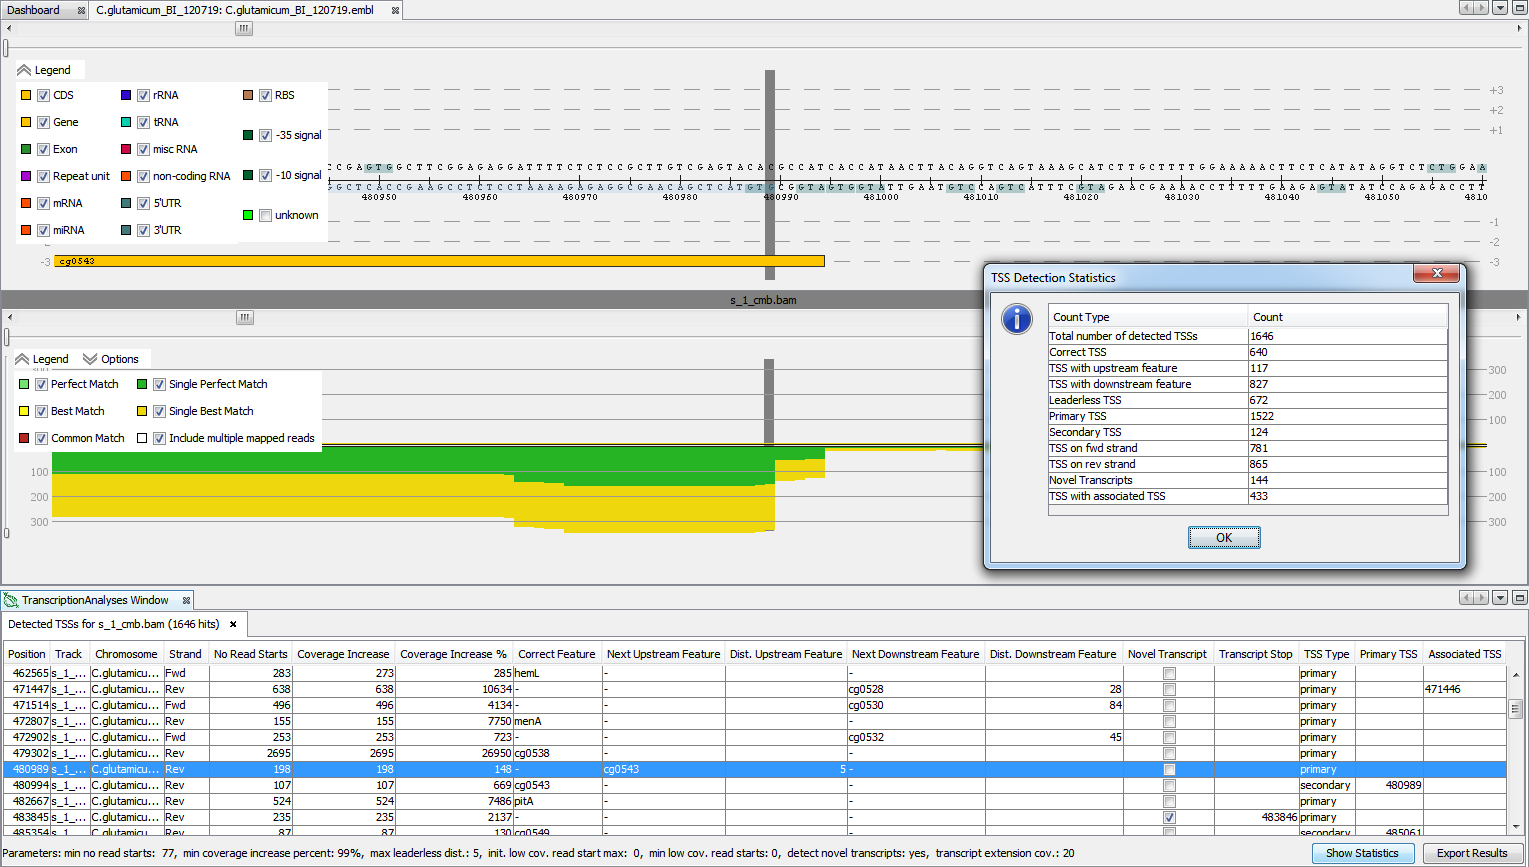
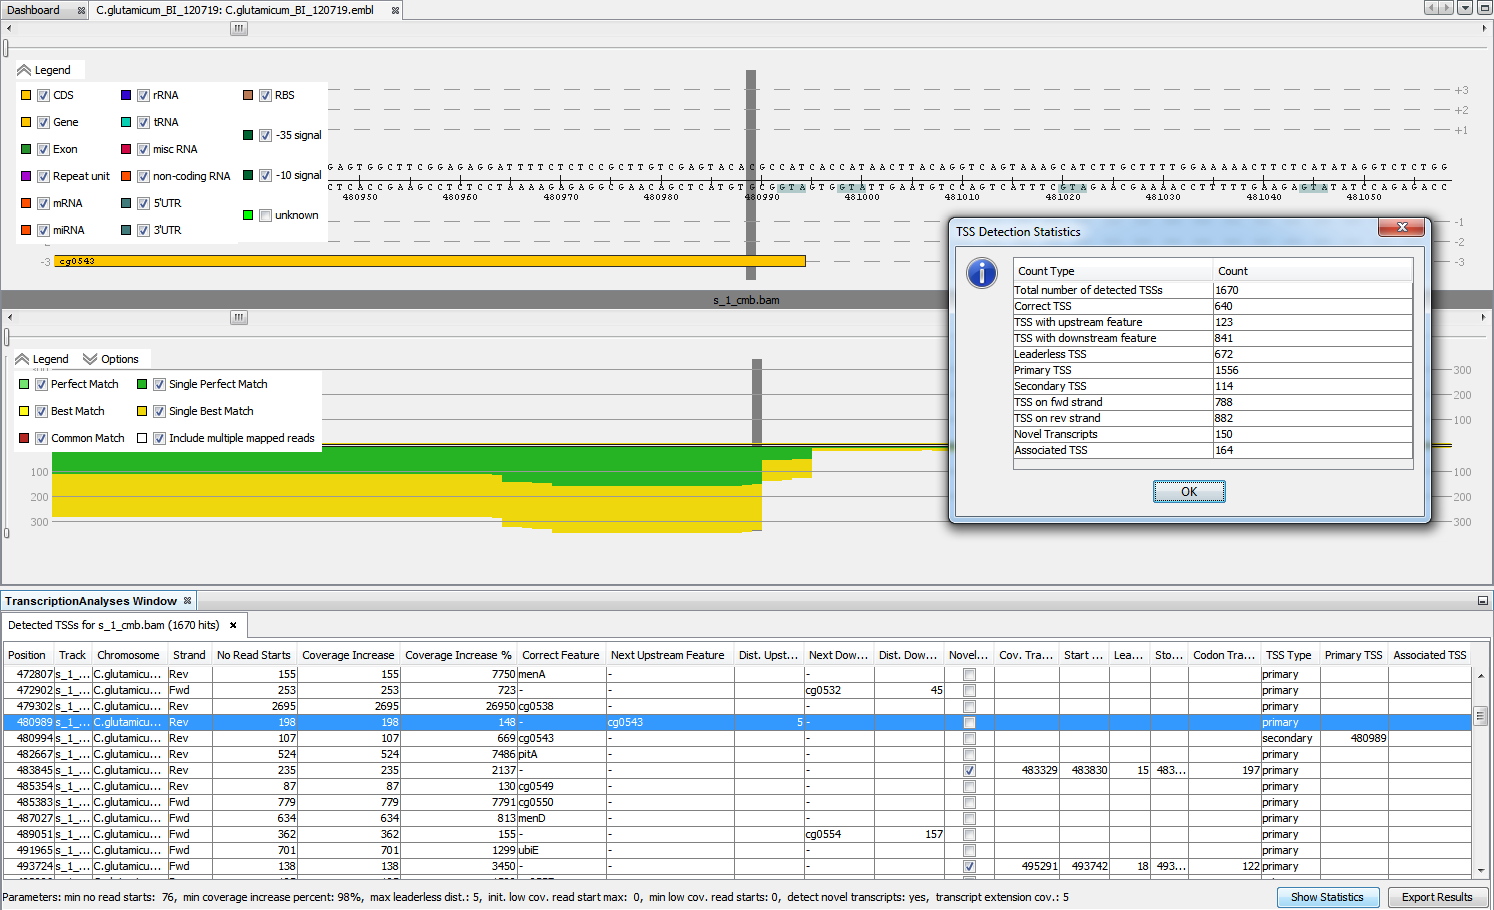
Update transcription analysis help (TSS and Normalization examples and text)

diff --git a/readxplorer-tools-transcriptionanalyses/src/main/resources/de/cebitec/readxplorer/transcriptionanalyses/docs/tss-about.html b/readxplorer-tools-transcriptionanalyses/src/main/resources/de/cebitec/readxplorer/transcriptionanalyses/docs/tss-about.html
@@ -12,31 +12,36 @@ and open the template in the editor.
         <p style="text-align: center;"><span style="font-size: 14pt;"><strong>Transcription Start Site (TSS) Detection:</strong></span></p>
         <p style="text-align: justify;">
             The TSS detection (enabled by checking the "<span style="text-decoration: underline;">TSS detection</span>" box in the wizard) has two default parameters.
-            <br /> 
+            <br />
             A) The <span style="text-decoration: underline;">minimal number of read starts</span> at the investigated position (default = 50 reads).
-            <br /> 
-            B) The <span style="text-decoration: underline;">minimal coverage increase in percent</span> from one position to the neighboring one (default = 50%). 
-            <br /><br /> 
-            In order to output currently unannotated transcript information along with the detected TSS, you can choose the "<span style="text-decoration: underline;">Novel transcript detection</span>". For detected TSS which do not have neighboring features on their respective strand in the given "<span style="text-decoration: underline;">Max distance of features to assign to TSS</span>" distance, it adds the information that this is a novel transcript. Further, a transcript stop is inferred by the coverage threshold "<span style="text-decoration: underline;">Min transcript extension coverage"</span>, which has to be set if the novel transcript detection checkbox is selected.
             <br />
-            <br />
-            TSSs are also classified as "<span style="text-decoration: underline;">primary</span>" or "<span style="text-decoration: underline;">secondary</span>" TSS. This is achieved by flagging the most significant TSS in the chosen maximum distance to genomic features (s. above) as primary and all other valid TSS as secondary.
-            <br /><br /> 
-            Additionally, two more parameters can be set for TSS detection in low coverage regions:<br /> C) The <span style="text-decoration: underline;">Max low coverage read starts</span> (default = 20 reads) can be set
-            <br /> 
-            D) The <span style="text-decoration: underline;">Min number read starts</span> (default = 10 reads) for predicted TSS with less than x (in the default case 20) reads at the TSS position has to be set. It can be the same as the mandatory first parameter, but it is recommended to choose a lower value, depending on your analysis and data quality. If one of these two additional parameters is &gt; 0 the other one also has to be set correctly. 
-            <br /> 
-            <br />
-            By checking the <span style="text-decoration: underline;">Automatic parameter estimation</span> box, the parameters are estimated from the data in the track. In this case only the mandatory parameters are set.
-        <br /> 
+            B) The <span style="text-decoration: underline;">minimal coverage increase in percent</span> from one position to the neighboring one (default = 50%).
+            <br /><br />
+            In order to output currently unannotated transcript information along with the detected TSS, you can choose the "<span style="text-decoration: underline;">Novel transcript detection</span>". For detected TSS which do not have neighboring features on their respective strand in the given "<span style="text-decoration: underline;">Max distance of features to assign to TSS</span>" distance, it adds the information that this is a novel transcript. Further, a transcript stop is inferred by the coverage threshold "<span style="text-decoration: underline;">Min transcript extension coverage"</span>, which has to be set if the novel transcript detection checkbox is selected. Additionally, the position of the first start codon on the respective strand is calculated and the corresponding CDS up to the next in-frame stop codon is calculated and listed in the table. These entries aid distinguishing real CDS from other small RNAs. The corresponding table columns are:
+        <ul>
+            <li>"<span style="text-decoration: underline;">Start Codon Pos</span>"</li>
+            <li>"<span style="text-decoration: underline;">Leader Length</span>": Bp offset from the TSS to the start codon start position</li>
+            <li>"<span style="text-decoration: underline;">Stop Codon Pos</span>"</li>
+            <li>"<span style="text-decoration: underline;">Codon Transcript Length</span>": Bp length of the transcript deduced from the two codons</li>
+        </ul>
+        <br />
+        TSSs are also classified as "<span style="text-decoration: underline;">primary</span>" or "<span style="text-decoration: underline;">secondary</span>" TSS. This is achieved by flagging the most significant TSS in the chosen maximum distance to genomic features (s. above) as primary and all other valid TSS as secondary.
+        <br /><br />
+        Additionally, two more parameters can be set for TSS detection in low coverage regions:<br /> C) The <span style="text-decoration: underline;">Max low coverage read starts</span> (default = 20 reads) can be set
+        <br />
+        D) The <span style="text-decoration: underline;">Min number read starts</span> (default = 10 reads) for predicted TSS with less than x (in the default case 20) reads at the TSS position has to be set. It can be the same as the mandatory first parameter, but it is recommended to choose a lower value, depending on your analysis and data quality. If one of these two additional parameters is &gt; 0 the other one also has to be set correctly.
+        <br />
+        <br />
+        By checking the <span style="text-decoration: underline;">Automatic parameter estimation</span> box, the parameters are estimated from the data in the track. In this case only the mandatory parameters are set.
+        <br />
         Transcripts can be classified as leaderless, if their distance to the next genomic feature is within the base pair window configured via the "<span style="text-decoration: underline;">Max distance to feature for leaderless transcripts</span>" field.
-        <br /> 
-        <br /> 
+        <br />
+        <br />
         To prevent receiving multiple TSS for the same TSS area, the check box "<span style="text-decoration: underline;">Associate all TSS with most significant TSS in this window of bps</span>" has been added. Only the most significant TSS in the entered base pair window (default = 3bp) is kept. All others are associated to this TSS and deleted from the result list. They still appear in the "Associated TSS" column of the result table, thus ARE NOT LOST!
-        </p>
-        <p style="text-align: center;"><img style="display: block; margin-left: auto; margin-right: auto;" src="nbdocs://de.cebitec.readxplorer.transcriptionanalyses/de/cebitec/readxplorer/transcriptionanalyses/docs/TSS-detection.png" alt="tss-detection-result" /></p>
-        <p style="text-align: justify;">This is an exemplary result of a TSS detection. The highlighted position in the table is centered in the Reference and PersistentTrack Viewers. The secondary TSS (480994) at the start of the gene has reads (transcripts) starting at exactly that position, so it is annotated correctly and we have a leaderless transcript at the inspected position (a "Leaderless" column only appears in exported tables). But the selected primary TSS (480989) has many more reads starting there. It seems that an alternative transcript on another reading frame can be generated from this position on. 
-            <br /> 
-            The statistics window displays the overall statistics of this TSS detection. TSS with a downstream feature can either have a wrong annotated CDS start, or we can observe a 5'UTR in this experiment.</p>
-    </body>
+    </p>
+    <p style="text-align: center;"><img style="display: block; margin-left: auto; margin-right: auto;" src="nbdocs://de.cebitec.readxplorer.transcriptionanalyses/de/cebitec/readxplorer/transcriptionanalyses/docs/TSS-detection.png" alt="tss-detection-result" /></p>
+    <p style="text-align: justify;">This is an exemplary result of a TSS detection. The highlighted position in the table is centered in the Reference and PersistentTrack Viewers. The secondary TSS (480994) at the start of the gene has reads (transcripts) starting at exactly that position, so it is annotated correctly and we have a leaderless transcript at the inspected position (a "Leaderless" column only appears in exported tables). But the selected primary TSS (480989) has many more reads starting there. It seems that an alternative transcript on another reading frame can be generated from this position on.
+        <br />
+        The statistics window displays the overall statistics of this TSS detection. TSS with a downstream feature can either have a wrong annotated CDS start, or we can observe a 5'UTR in this experiment.</p>
+</body>
 </html>

diff --git a/readxplorer-tools-transcriptionanalyses/src/main/resources/de/cebitec/readxplorer/transcriptionanalyses/docs/normalization-about.html b/readxplorer-tools-transcriptionanalyses/src/main/resources/de/cebitec/readxplorer/transcriptionanalyses/docs/normalization-about.html
@@ -54,7 +54,7 @@ and open the template in the editor.
             <li style="text-align: justify;">Select the feature types, for which the Read Count & Normalization Calculation shall be carried out. NOTE for eukaryotes: If e.g. "Gene" is selected, but not "Exon" the TPM, RPKM and Read Count values still correspond to the exons of that gene and NOT to all reads mapped within the gene's boundaries. If "Exon" or "CDS" are selected e.g. together with "Gene", it means that an extra row for each "Exon" or "CDS" satisfying the given parameters will be shown in the result next to the "Gene" result row. If no "Exon" information is available for a "Gene" it is screened for mRNA/rRNA/tRNA, and only if they are also not present, all reads mapped within the gene's boundaries are counted.<br /></li>
             <li style="text-align: justify;">Click "<span style="text-decoration: underline;">Finish</span>" to start the <span>Read Count & Normalization (TPM & RPKM) Calculation.</span><br /></li>
         </ol>
-        <p style="text-align: center;"><img style="display: block; margin-left: auto; margin-right: auto;" src="nbdocs://de.cebitec.readxplorer.transcriptionanalyses/de/cebitec/readxplorer/transcriptionanalyses/docs/RPKM-Calculation-Histogram.png" /></p>
+        <p style="text-align: center;"><img style="display: block; margin-left: auto; margin-right: auto;" src="nbdocs://de.cebitec.readxplorer.transcriptionanalyses/de/cebitec/readxplorer/transcriptionanalyses/docs/TPM-Histogram.png" /></p>
         <p style="text-align: justify;">The screenshot shows an Read Count & Normalization Calculation result with calculated TPM, RPKM and Read Count values in the last three columns of the table. The <b>effective length</b> (fourth last column) is the calculated length of a feature, at which reads may start. This is estimated in connection with the <b>mean read length</b> observed for the feature reads. The selected gene and its coverage is centered on the left hand side. The histogram shows the distribution of TPM values on the number of genes (log scale). The tooltip displays the actual count of features, which belong to a histogram bar. The histogram can be switched between TPM and RPKM values by the "<span style="text-decoration: underline;">Switch to ...</span>"-button at the top.</p>
     </body>
 </html>
